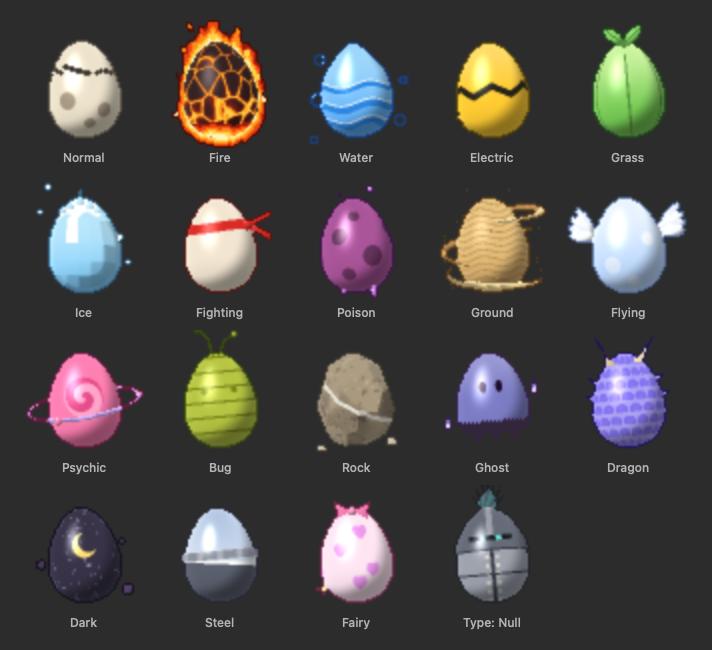
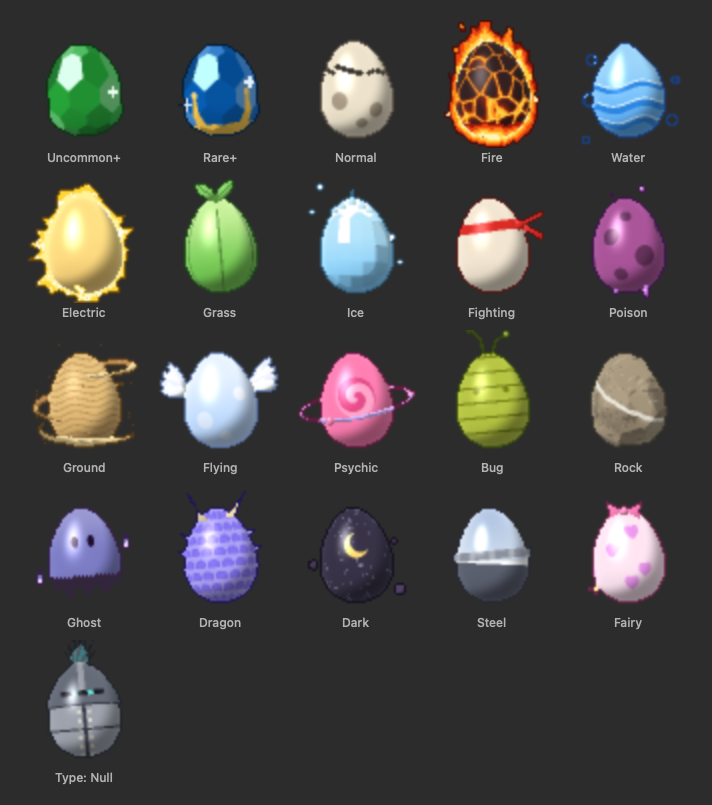
feat(egg): the electric egg is overcharged
A crackling aura around it, its jagged edge and its arcs redrawn every frame, bolts leaping off it, the shell
flashing. The PR images show the shop's gem eggs.

diff --git a/Sources/PokeTokenBar/UI/EggDesigns.swift b/Sources/PokeTokenBar/UI/EggDesigns.swift
@@ -403,24 +403,67 @@ enum EggDesigns {
         }, outline: EggColor(0.1, 0.25, 0.5))
     }
 
-    /// A lightning band around it; sparks crackle on and off around it.
+    /// Overcharged: a crackling aura around it, its jagged edge and its arcs redrawn every frame, bolts leaping off
+    /// it; the shell flashes.
     static var electric: EggDesign {
-        let yellow = color(.electric), black = EggColor(0.16, 0.14, 0.1)
-        let surface = EggSurface(albedo: { p in
-            let saw = abs((p.angle / (2 * .pi) * 6 + 10).truncatingRemainder(dividingBy: 1) * 2 - 1)
-            let edge = -0.02 + 0.2 * (saw - 0.5)
-            if abs(p.y - edge) < 0.075 { return black }
-            return yellow.mixed(with: .white, EggLight.smoothstep(-0.2, 0.9, p.y) * 0.25)
-        }, gloss: 0.45)
+        let yellow = color(.electric), deep = EggColor(0.92, 0.6, 0.05)
+        let glow = EggColor(1, 0.84, 0.22), pale = EggColor(1, 0.95, 0.6), white = EggColor(1, 1, 0.94)
+        let surface = EggSurface(albedo: { (p: EggSurfacePoint) -> EggColor in
+            let base = yellow.mixed(with: deep, EggLight.smoothstep(0.4, -1, p.y) * 0.5)
+            return loopFrame(p.phase / (2 * .pi)) % 6 == 0 ? base.mixed(with: .white, 0.4) : base
+        }, gloss: 0.55)
         return EggDesign(surface: surface, back: { canvas, f in
-            for i in 0..<4 where sin(f.phase * 4 + Double(i) * 1.9) > 0.1 {
-                let a = Double(i) * .pi / 2 + 0.6 + 0.4 * sin(f.phase)
-                let x = f.cx + cos(a) * 25, y = f.cy - 2 + sin(a) * 23 - Double(f.lift)
-                let s = 3.5
-                canvas.path([(x - s, y - s), (x + 0.5, y - 0.5), (x - 0.5, y + 0.5), (x + s, y + s)], width: 1.6,
-                            EggColor(1, 0.97, 0.55))
+            let frame = Double(loopFrame(f.t))
+            for py in 0..<canvas.size {
+                for px in 0..<canvas.size {
+                    let (x, y, inside) = eggPoint(f, Double(px) + 0.5, Double(py) + 0.5)
+                    guard !inside, abs(x) < 1.25, abs(y) < 1.38 else { continue }
+                    var nearest = 9.0
+                    for (ox, oy) in outlinePoints { nearest = min(nearest, (x - ox) * (x - ox) + (y - oy) * (y - oy)) }
+                    // A jagged edge: spikes around it, changing every frame.
+                    let spike = EggLight.noise(atan2(y + 0.05, x) * 7 + frame * 3.3, frame * 1.9)
+                    let reach = 0.11 + 0.32 * spike * spike, d = nearest.squareRoot()
+                    guard d < reach else { continue }
+                    let crackle = abs(EggLight.noise(Double(px) * 0.3 + frame * 7.3, Double(py) * 0.3) - 0.5)
+                    canvas.set(px, py, crackle < 0.035 ? white : d < reach * 0.45 ? pale : glow)
+                }
             }
-        }, outline: EggColor(0.36, 0.28, 0.02))
+        }, front: { canvas, f in
+            let frame = loopFrame(f.t)
+            for k in 0..<2 {
+                let angle = hash(frame, k, 0, seed: 43) * 2 * .pi
+                lightning(&canvas, f, from: rim(f, angle, out: 0.02), to: rim(f, angle + 0.2, out: 0.6), seed: 50 + k)
+            }
+        }, outline: EggColor(0.45, 0.3, 0.02))
+    }
+
+    /// The frame of the loop at `t` (0..<1), the loop's end counting as its start.
+    static func loopFrame(_ t: Double) -> Int {
+        Int((t * Double(EggRenderer.frameCount)).rounded()) % EggRenderer.frameCount
+    }
+
+    /// A lightning arc between two points of the canvas: jagged, its kinks redrawn every frame, a white core in a
+    /// yellow glow.
+    static func lightning(_ canvas: inout EggCanvas, _ f: EggFrame, from a: (Double, Double), to b: (Double, Double),
+                          seed: Int) {
+        let frame = loopFrame(f.t), kinks = 5
+        let dx = b.0 - a.0, dy = b.1 - a.1, length = max(1, (dx * dx + dy * dy).squareRoot())
+        var points: [(Double, Double)] = [a]
+        for k in 1..<kinks {
+            let t = Double(k) / Double(kinks), offset = (hash(seed, frame, k, seed: 31) - 0.5) * 4.8
+            points.append((a.0 + dx * t - dy / length * offset, a.1 + dy * t + dx / length * offset))
+        }
+        points.append(b)
+        canvas.path(points, width: 2.8, EggColor(1, 0.86, 0.25))
+        canvas.path(points, width: 1.4, EggColor(1, 1, 0.9))
+    }
+
+    /// A point of the egg's outline at an angle (0 right, π/2 top), pushed out by `out` egg units, in pixels.
+    private static func rim(_ f: EggFrame, _ angle: Double, out: Double) -> (Double, Double) {
+        let y = sin(angle) * 0.96
+        let x = cos(angle) * EggProfile.radius(y)
+        let l = max(0.01, (x * x + y * y).squareRoot())
+        return f.pixel(x + x / l * out, y + y / l * out)
     }
 
     /// Leaf veins on the shell; two leaves sprout from the top and sway.
